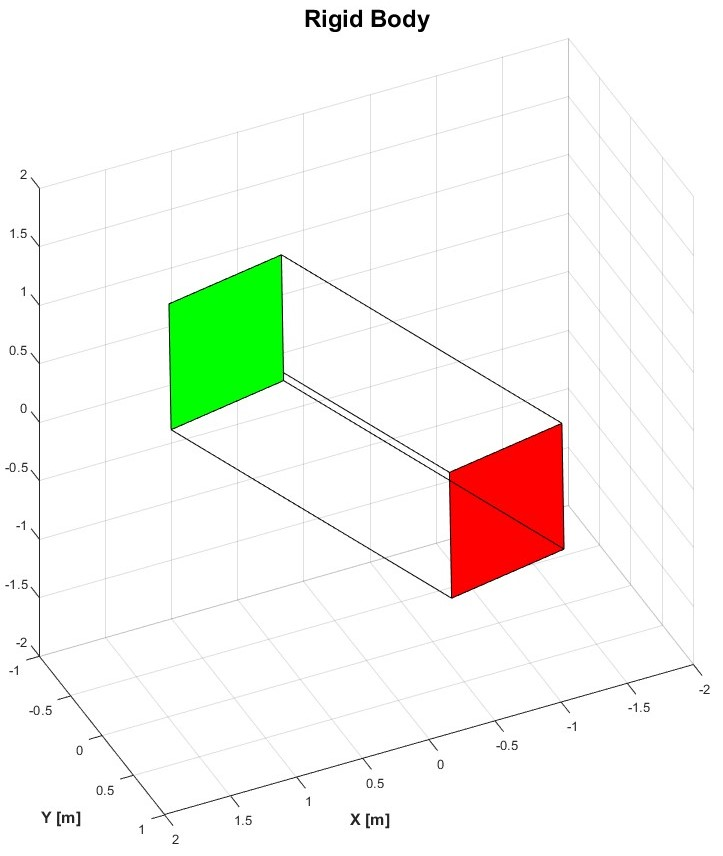
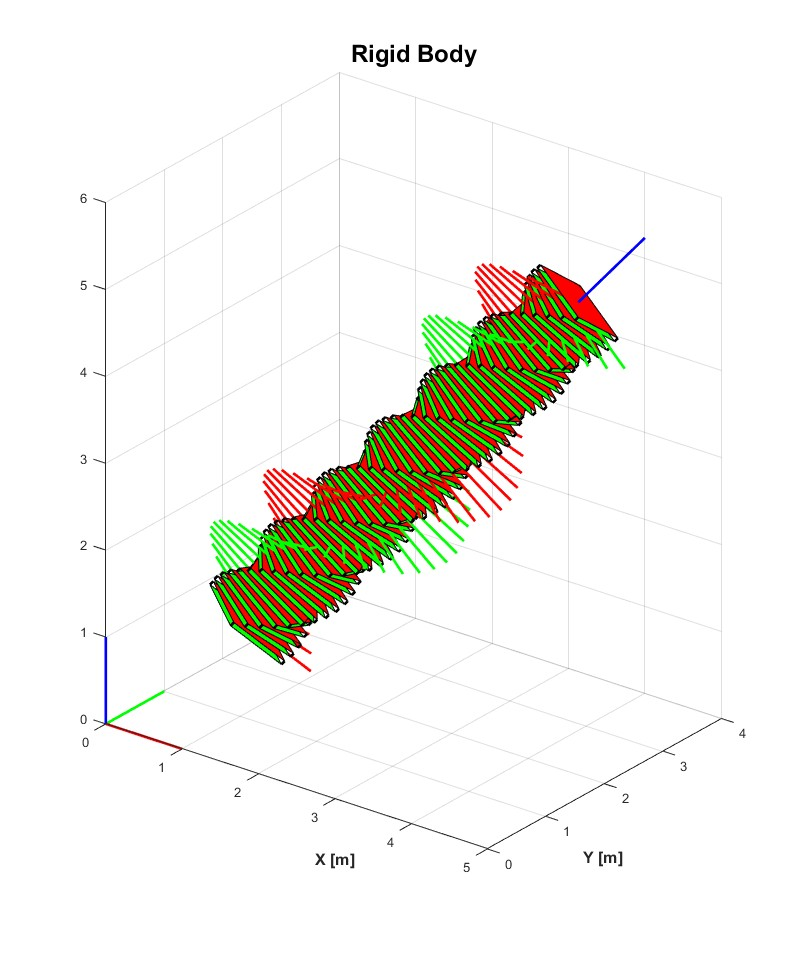
[UPDATE] Updated the figure

diff --git a/motion_test.m b/motion_test.m
@@ -4,7 +4,7 @@ clc, clear, close all
 
 % Simulation parameters
 t_s = 0.001;
-t_lim = 10;
+t_lim = 50;
 
 % Rigid body parameters
 m = 1;
@@ -12,7 +12,7 @@ j = eye(3);
 j_i = inv(j);
 
 % Rigid body dimensions
-dims = [0.2 , 0.2, 0.05];
+dims = [0.8 , 0.8, 0.05];
 
 % Allocation
 X = zeros(3,t_lim/t_s);
@@ -22,9 +22,9 @@ W = zeros(3,t_lim/t_s);
 
 % Initial conditions
 X(:,1) = [1, 1, 1]';
-E(:,1) = [0, pi/4, 0]';
-V(:,1) = [0, 0, 0]';
-W(:,1) = [0, 0, 0.5]';
+E(:,1) = [0, pi/4, pi/4]';
+V(:,1) = [0, 0, 0.1]';
+W(:,1) = [0, 0, 0.2]';
 
 %% Simulation
 step_counter = 0;
@@ -32,7 +32,7 @@ for i = t_s:t_s:t_lim
 
     step_counter = step_counter + 1;
 
-    F = [0, 0, 0.03]';
+    F = [0, 0, 0]';
     M = [0, 0, 0]';
 
     [X_NEW,E_NEW,V_NEW,W_NEW] = RK4UPDATESTATES(m,j,j_i,F,M,...
